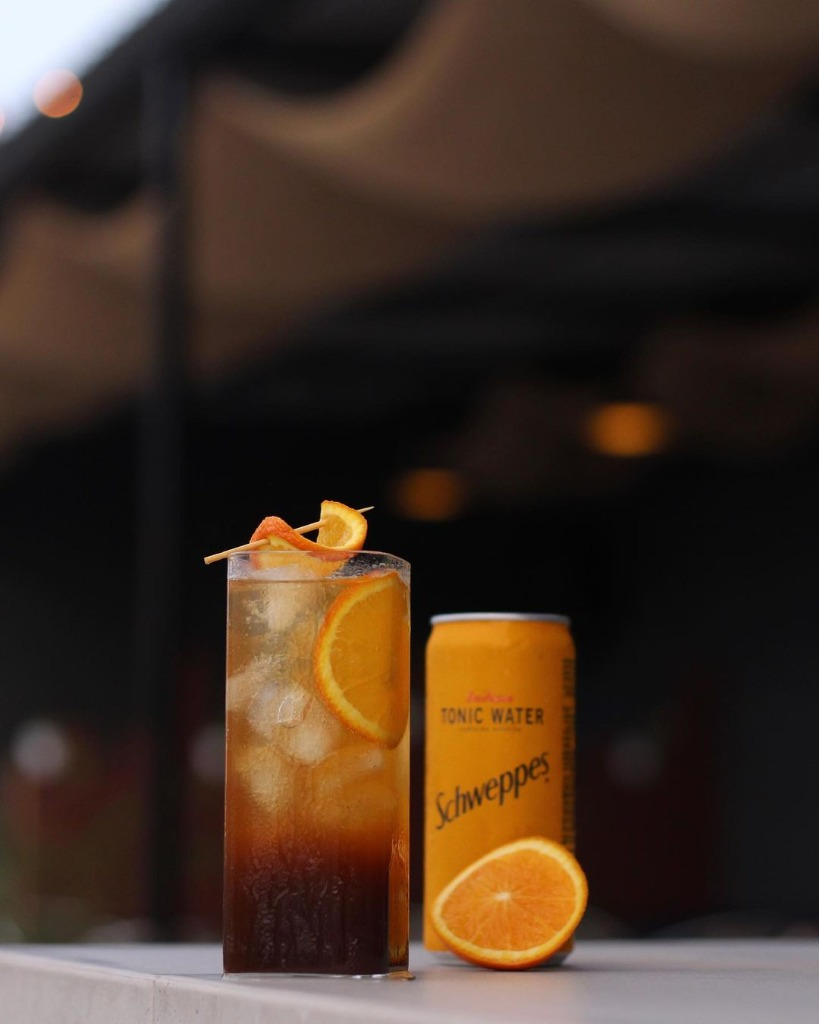
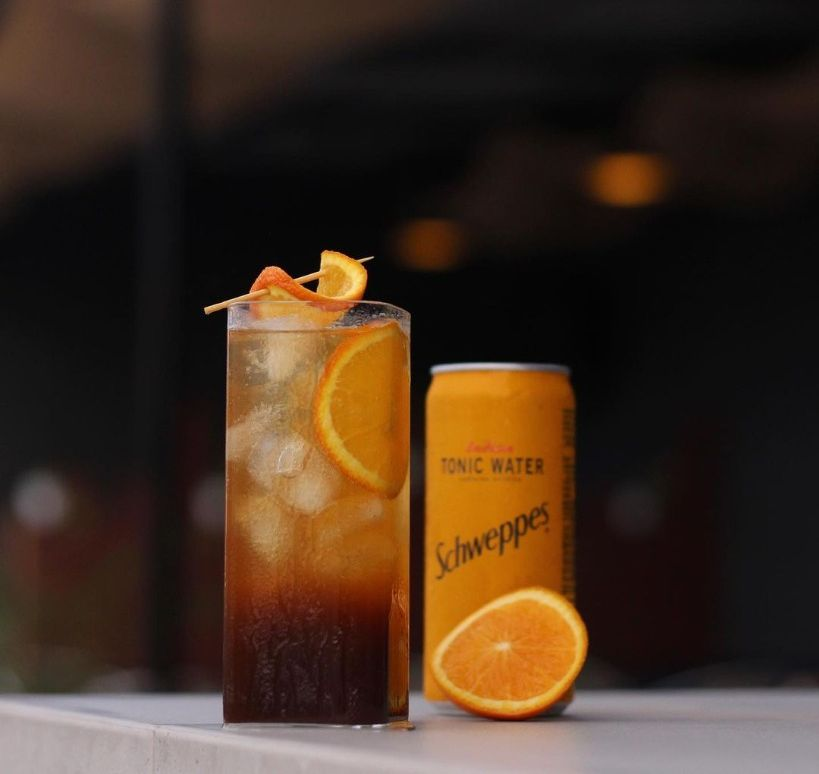
Crop top of user uploaded images

diff --git a/components/sections/CoffeeStory.tsx b/components/sections/CoffeeStory.tsx
@@ -25,7 +25,6 @@ export default function CoffeeStory() {
                 src={`${basePath}/images/user_upload_1.jpg`}
                 alt="A premium crafted cocktail with an orange slice at Demo Cafe"
                 className="aspect-[3/4] w-full md:aspect-[4/5] lg:w-full"
-                imgClassName="object-[center_85%]"
                 sizes="(max-width: 1024px) 100vw, 50vw"
                 priority
               />
@@ -35,7 +34,6 @@ export default function CoffeeStory() {
                 src={`${basePath}/images/user_upload_2.jpg`}
                 alt="An elegant iced cocktail with mint against a bokeh background"
                 className="aspect-[2/3] w-full shadow-2xl md:aspect-[3/4]"
-                imgClassName="object-[center_80%]"
                 amount={20}
                 sizes="220px"
               />